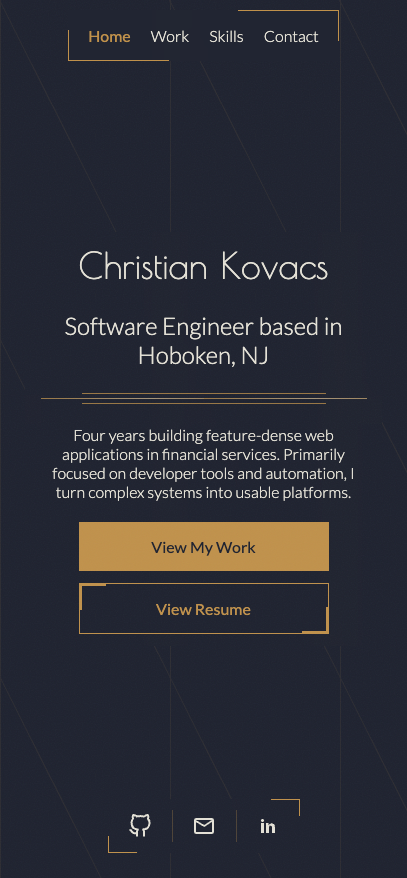
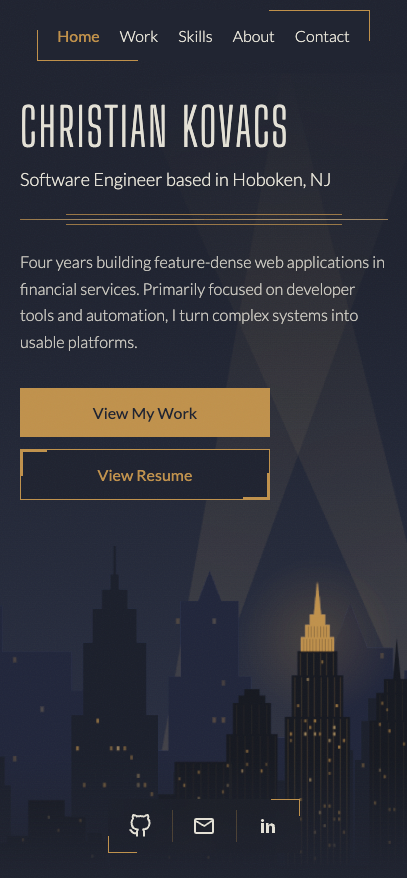
readme fixes and minor tweaks to project details

diff --git a/src/components/work-card/site-details.tsx b/src/components/work-card/site-details.tsx
@@ -16,7 +16,7 @@ export const SiteDetails = () => {
                 <dl className='site-details-stack'>
                     <div className='site-details-stack-row'>
                         <dt className='site-details-stack-term'> Application </dt>
-                        <dd className='site-details-stack-value'> React | TypeScript | Vite | CSS </dd>
+                        <dd className='site-details-stack-value'> React | TypeScript | Three.js | Vite | CSS </dd>
                     </div>
                     <div className='site-details-stack-row'>
                         <dt className='site-details-stack-term'> Delivery </dt>
@@ -34,7 +34,7 @@ export const SiteDetails = () => {
                         <p>
                             A component library would have been faster to start with, but I wanted everything on the site to be custom.  Speed of delivery was not the primary goal of developing this website.
                             I wanted it to be completely personal, taking my favorite architectural aesthetic and adapting it to a UI. Using any third-party design elements seemed counterintuitive to that idea.
-                            Instead, everything is plain CSS, responsive from a 4K monitor to a phone screen, and dependent only on React and an icon set.
+                            Instead, everything is plain CSS, responsive from a 4K monitor to a phone screen, and dependent only on React, an icon set, and Three.js for the landing page skyline.
                         </p>
                     </li>
 
@@ -98,8 +98,8 @@ export const SiteDetails = () => {
             <div className='site-detail'>
                 <h4 className='site-details-heading'> Results </h4>
                 <p className='site-details-intro'>
-                    The live site scores 100 in Lighthouse for accessibility, best practices, and SEO on both desktop and mobile, and 94 to 98 for performance.
-                    The page loads about 71 KB of JavaScript and respects reduced motion settings throughout.
+                    The live site scores 100 in Lighthouse for accessibility, best practices, and SEO on both desktop and mobile, and 87 to 100 for performance.
+                    The page loads about 72 KB of JavaScript up front; the 132 KB Three.js skyline loads afterward, so it never delays the page. It respects reduced motion settings throughout.
                 </p>
             </div>
         </div>

diff --git a/src/pages/about/about.tsx b/src/pages/about/about.tsx
@@ -10,13 +10,13 @@ export const About = () => {
             <WorkCard
                 compact
                 link={{ href: REPO_URL, label: 'View Source' }}
-                tech='React | TypeScript | Vite | Cloudflare'
+                tech='React | TypeScript | Three.js | Vite | Cloudflare'
                 title='How This Site Was Built'
                 subtitle="An art deco inspired design system, built by hand and extended with Claude Code and shipped through automated CI/CD.  The decisions, the trade-offs, and how I worked with AI to build it."
                 stats={[
                     { value: '100', label: 'Lighthouse accessibility, best practices & SEO' },
-                    { value: '94–98', label: 'Lighthouse performance, desktop & mobile' },
-                    { value: '71 KB', label: 'Total JavaScript, gzipped' },
+                    { value: '87–100', label: 'Lighthouse performance, desktop & mobile' },
+                    { value: '72 KB', label: 'Initial JavaScript, gzipped' },
                 ]}
             >
                 <SiteDetails />

diff --git a/README.md b/README.md
@@ -15,7 +15,8 @@ Hand-built from the ground up to establish the core layout and art-deco styling,
 
 ## Design Ideals
 
-- Art-deco visual system
+- Art-deco visual system in navy and gold, inspired by 1920s New York, Chicago, and Detroit architecture and the "dark deco" look of Batman: The Animated Series
+- Landing page skyline rendered as a 2.5D parallax scene with Three.js, responding to mouse and scroll, and loaded after the page so it never delays first paint
 - Responsive from 320px up, with fluid type and spacing via `clamp()`
 - Respects `prefers-reduced-motion` throughout
 
@@ -23,8 +24,9 @@ Hand-built from the ground up to establish the core layout and art-deco styling,
 
 - React + TypeScript
 - Vite
+- Three.js
 - HTML & CSS
-- Deployed on CloudFlare
+- Deployed on Cloudflare via GitHub Actions
 
 ## Running locally
 
